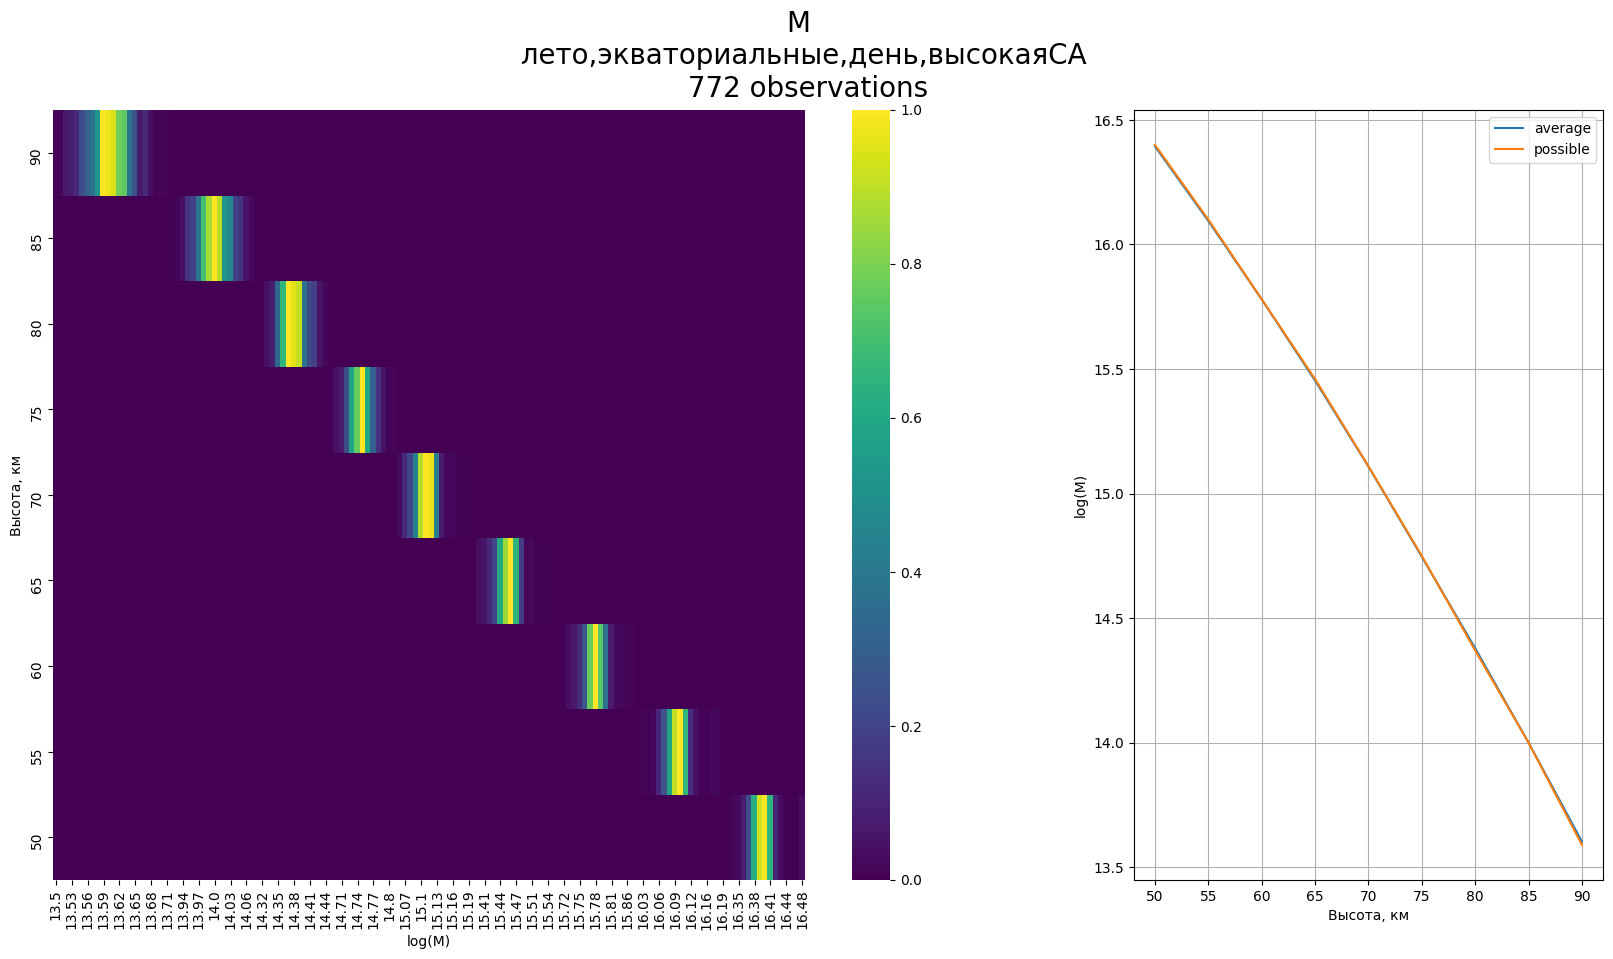
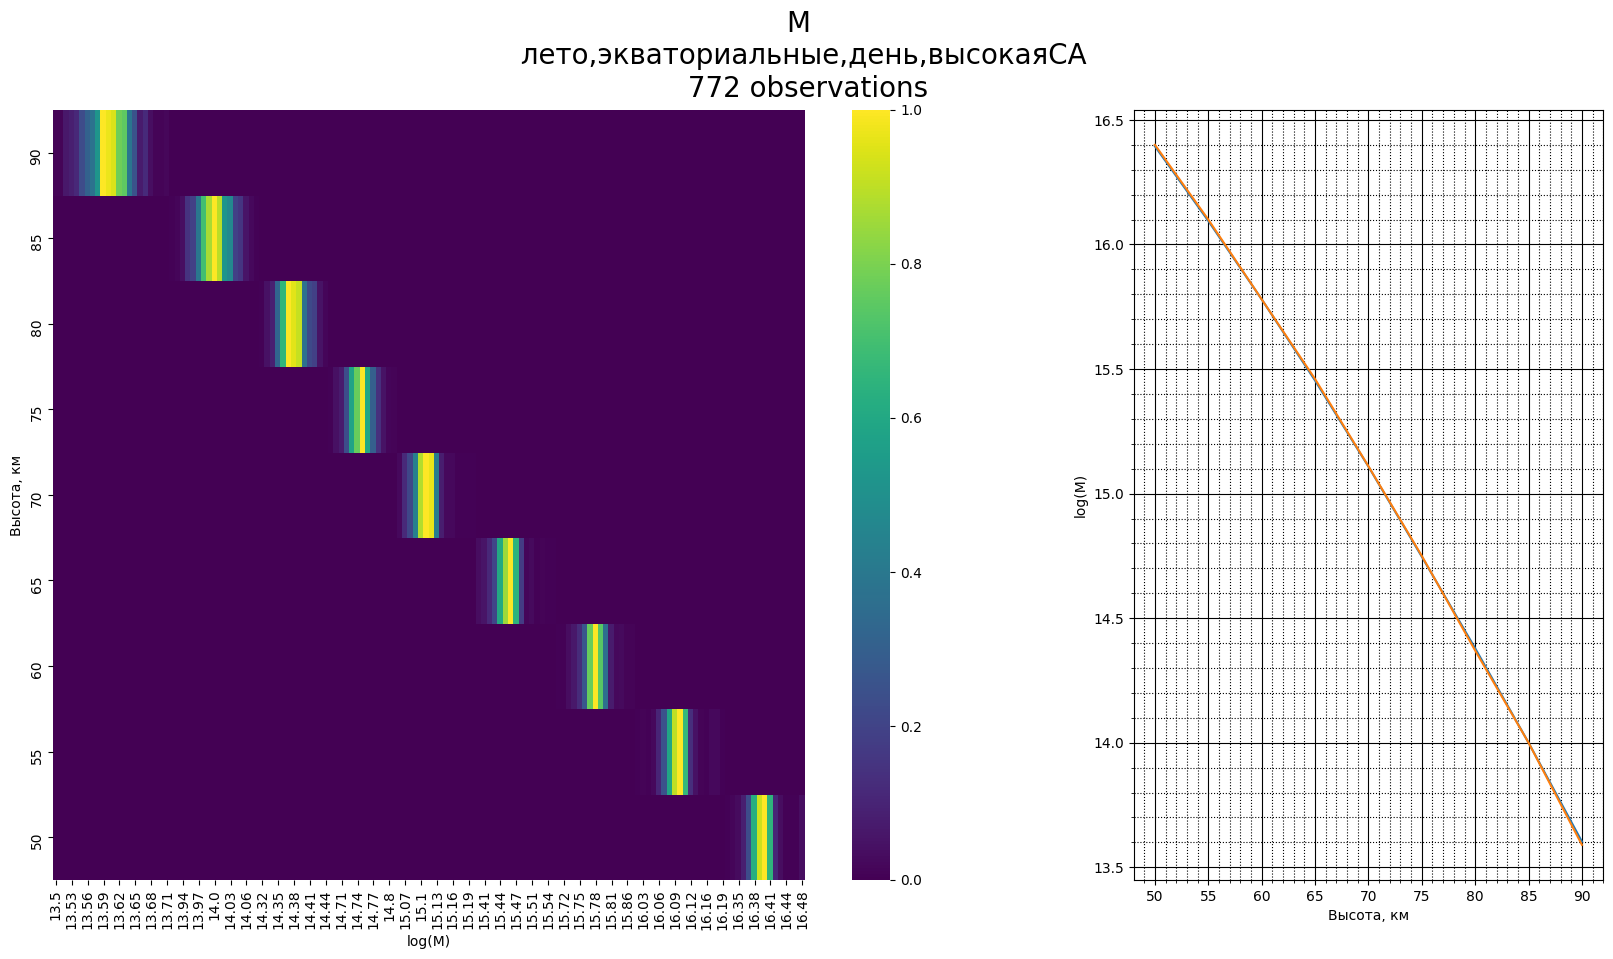
добавлены доп оси

diff --git a/python_code/kde_builder.py b/python_code/kde_builder.py
@@ -115,7 +115,8 @@ class KdeBuilder:
             'width_ratios': [2, 1]})
         fig.set_size_inches(20, 10)
 
-        __param_tittle = f'{self.__param[0]} на высоте h = {self.__param[1:]} км' if len(self.__param) > 1 else self.__param
+        __param_tittle = f'{self.__param[0]} на высоте h = {self.__param[1:]} км' if len(
+            self.__param) > 1 else self.__param
 
         fig.suptitle(f'{__param_tittle} \n {self.__options} \n {self.obs_count} observations'
                      if not plt_tittle else f'{plt_tittle} \n {self.obs_count} observations', fontsize=20)
@@ -131,8 +132,17 @@ class KdeBuilder:
         ax[1].set_xlabel(_Y_NAMES_BY_PARAM[y_param] if not y_label else y_label)
         ax[1].set_ylabel(_VAL_NAMES_BY_PARAM[self.__param[0]] if not x_label else x_label)
 
-        plt.grid()
-        plt.legend()
+        ax[1].minorticks_on()
+
+        #  Определяем внешний вид линий основной сетки:
+        ax[1].grid(which='major',
+                   color='k')
+
+        #  Определяем внешний вид линий вспомогательной
+        #  сетки:
+        ax[1].grid(which='minor',
+                   color='k',
+                   linestyle=':')
 
         plt.savefig(image_file, bbox_inches='tight', dpi=100)
         plt.close()
@@ -171,7 +181,17 @@ class KdeBuilder:
         plt.title(f'{self.__param} \n {self.__options} \n {self.obs_count} observations')
         plt.xlabel('h, км')
         plt.ylabel(_VAL_NAMES_BY_PARAM[self.__param])
-        plt.grid()
+        plt.minorticks_on()
+
+        #  Определяем внешний вид линий основной сетки:
+        plt.grid(which='major',
+                   color='k')
+
+        #  Определяем внешний вид линий вспомогательной
+        #  сетки:
+        plt.grid(which='minor',
+                   color='k',
+                   linestyle=':')
         plt.legend()
 
         plt.savefig(image_file, bbox_inches='tight', dpi=100)
